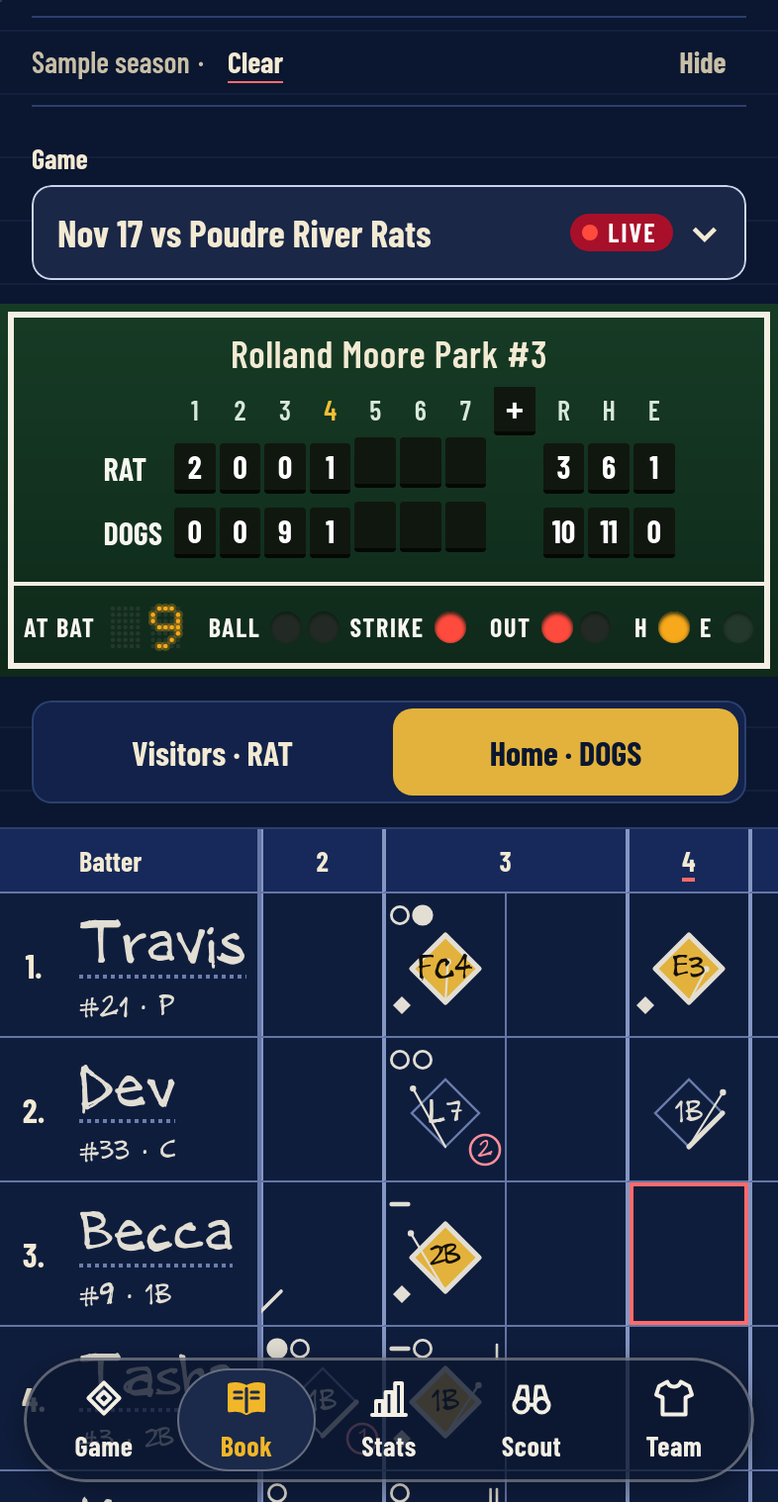
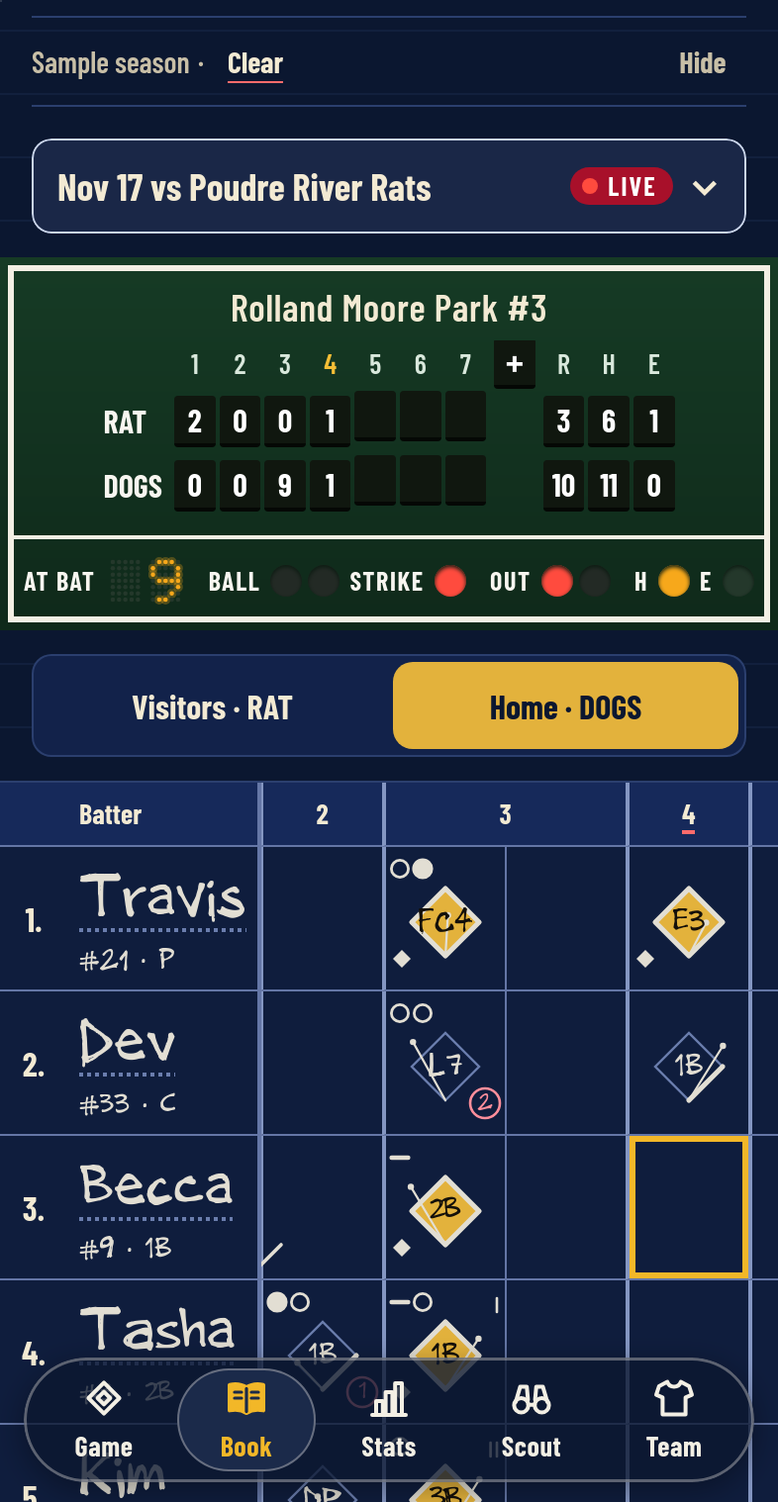
Book: current inning fully in view after batting around, gold now-box, Batter column fits the longest name, no Game label
Claude-Session: https://claude.ai/code/session_019GkS5eEiAzmEB3GrHC5aVf

diff --git a/src/ui/book/book.ts b/src/ui/book/book.ts
@@ -52,6 +52,31 @@ export function gameLabel(g: SavedGame): string {
   return `${shortDayText(g.date)} ${g.setup.us === 'away' ? 'at' : 'vs'} ${g.opponent} · ${tail}`;
 }
 
+/**
+ * The Batter column is as wide as the longest Book name at full size, never more than its cap (a
+ * third of the width with the order column) and never under 60 points (Steve, Nov 17): with first
+ * names that often leaves room for another inning.
+ */
+function sizeBatterColumn(root: HTMLElement): void {
+  const grid = root.querySelector<HTMLElement>('.bk-grid');
+  const cell = root.querySelector<HTMLElement>('.bk-grid tbody td.bk-batter');
+  if (!grid || !cell) return;
+  grid.style.removeProperty('--bk-batter-fit');
+  const names = [...root.querySelectorAll<HTMLElement>('.bk-grid tbody .bk-name')];
+  for (const el of names) el.style.setProperty('--fit', '1');
+  const cs = getComputedStyle(cell);
+  const pad = parseFloat(cs.paddingLeft) + parseFloat(cs.paddingRight) + parseFloat(cs.borderRightWidth);
+  const cap = cell.getBoundingClientRect().width;
+  const range = document.createRange();
+  let need = 0;
+  for (const el of names) {
+    range.selectNodeContents(el);
+    need = Math.max(need, range.getBoundingClientRect().width);
+  }
+  const width = Math.min(cap, Math.max(60, Math.ceil(need + pad + 2)));
+  grid.style.setProperty('--bk-batter-fit', `${width}px`);
+}
+
 /** Each name and the line under it on one line: shrink (--fit) until it shows whole. */
 function fitNames(root: HTMLElement): void {
   const fit = (el: HTMLElement, min: number) => {
@@ -80,15 +105,39 @@ function fitNames(root: HTMLElement): void {
   }
 }
 
+/**
+ * Scroll so the inning being played is fully in view, keeping as many earlier innings beside it as
+ * fit, snapped to an inning's edge so no sliver of a half-hidden inning peeks out beside the names.
+ */
+function showCurrentInning(wrap: HTMLElement): void {
+  const now = wrap.querySelector<HTMLElement>('thead th.bk-current');
+  const pinned = wrap.querySelector<HTMLElement>('thead .bk-batter');
+  if (!now || !pinned) return;
+  const edge = pinned.offsetLeft + pinned.offsetWidth;
+  const need = now.offsetLeft + now.offsetWidth - wrap.clientWidth + 2;
+  const stops = [...wrap.querySelectorAll<HTMLElement>('thead th.bk-inning')].map((th) => th.offsetLeft - edge).filter((x) => x <= now.offsetLeft - edge);
+  const fit = stops.filter((x) => x >= need);
+  wrap.scrollLeft = Math.max(0, need <= 0 ? 0 : Math.min(...(fit.length ? fit : [now.offsetLeft - edge])));
+}
+
 export class BookScreen {
   readonly el = h('div', { class: 'bk-screen' });
   private readonly app: App;
   private side: 'us' | 'them' = 'us';
   private shownId: string | null = null;
   private board: BookBoard | null = null;
+  // Bring the inning being played into view on the next draw: set when the Book is opened.
+  private reveal = false;
+  private lastInning: number | null = null;
 
   constructor(app: App) {
     this.app = app;
+  }
+
+  /** The Book tab was tapped: show the inning being played (Steve, Nov 17). */
+  show(): void {
+    this.reveal = true;
+    this.update(true);
   }
 
   update(visible: boolean): void {
@@ -136,7 +185,7 @@ export class BookScreen {
       isLive ? h('span', { class: 'bk-live' }, h('span', { class: 'bk-live-lamp' }), 'Live') : null,
       h('span', { class: 'bk-picker-chev' }, '⌄'),
     );
-    const picker = h('div', { class: 'sk-field bk-picker' }, h('label', { for: 'bk-game', class: 'sk-field-label' }, 'Game'), h('div', { class: 'bk-picker-box' }, face, menu));
+    const picker = h('div', { class: 'sk-field bk-picker' }, h('label', { for: 'bk-game', class: 'sk-visually-hidden' }, 'Game'), h('div', { class: 'bk-picker-box' }, face, menu));
 
     // The board.
     const live = team.currentGameId === game.id;
@@ -206,23 +255,24 @@ export class BookScreen {
 
     this.el.replaceChildren(header, picker, this.board.el, h('div', { class: 'bk-which' }, which), h('section', { class: 'bk-page', 'aria-label': 'Book Page' }, gridEl, note), pbp, this.footer(game));
     const wrap = this.el.querySelector<HTMLElement>('.bk-grid-wrap');
-    if (wrap && scroll !== null && !opened) wrap.scrollLeft = scroll;
-    else if (wrap && live) {
-      // A live game opens with the inning being played fully in view, keeping as many earlier
-      // innings beside it as fit (Steve, Nov 16: in the 4th at 375 points, innings 1 to 4).
-      const now = wrap.querySelector<HTMLElement>('thead th.bk-current');
-      const pinned = wrap.querySelector<HTMLElement>('thead .bk-batter');
-      if (now && pinned) {
-        // Snap to an inning's edge, so no sliver of a half-hidden inning peeks out beside the names.
-        const edge = pinned.offsetLeft + pinned.offsetWidth;
-        const need = now.offsetLeft + now.offsetWidth - wrap.clientWidth + 2;
-        const stops = [...wrap.querySelectorAll<HTMLElement>('thead th.bk-inning')].map((th) => th.offsetLeft - edge).filter((x) => x <= now.offsetLeft - edge);
-        const fit = stops.filter((x) => x >= need);
-        wrap.scrollLeft = Math.max(0, need <= 0 ? 0 : Math.min(...(fit.length ? fit : [now.offsetLeft - edge])));
-      }
-    }
-    fitNames(this.el);
-    void document.fonts?.ready.then(() => fitNames(this.el));
+    // A live game shows the inning being played whenever the Book is opened or the inning changes,
+    // however many columns batting around added before it (Steve, Nov 17); otherwise the page stays
+    // where you scrolled it.
+    const inning = live ? (page.current?.inning ?? null) : null;
+    const bringIn = live && (opened || this.reveal || inning !== this.lastInning);
+    this.reveal = false;
+    this.lastInning = inning;
+    const layout = () => {
+      sizeBatterColumn(this.el);
+      if (wrap && bringIn) showCurrentInning(wrap);
+      fitNames(this.el);
+    };
+    if (wrap && scroll !== null && !bringIn) wrap.scrollLeft = scroll;
+    layout();
+    // The handwriting font changes every name's width once it's loaded: measure again.
+    void document.fonts?.ready.then(() => {
+      if (wrap?.isConnected) layout();
+    });
   }
 
   private openAllPlays(game: SavedGame, lines: PlayLine[]): void {

diff --git a/tests/e2e/book-stats.spec.ts b/tests/e2e/book-stats.spec.ts
@@ -657,3 +657,63 @@ test('the Book writes first names, and Edit Team’s Book Names switches the who
   expect(last).toContain('Pruitt');
   expect(last).not.toContain('Travis');
 });
+
+test('after batting around in the 3rd, the Book opens with the whole 4th in view at 375, its now-box gold (Steve, Nov 17)', async ({ page }) => {
+  await page.setViewportSize({ width: 375, height: 759 });
+  await freshApp(page);
+  await startGame(page, { ruleSet: 'Basic Slowpitch' });
+  const theirHalf = async () => {
+    for (let n = 0; n < 3; n++) await key(page, '+1 Out').click();
+  };
+  for (let inning = 1; inning <= 2; inning++) {
+    for (let n = 0; n < 3; n++) await key(page, 'Strikeout Swinging').click();
+    await theirHalf();
+  }
+  // The 3rd: ten singles, so the top of the order bats twice (two columns), then three outs.
+  for (let n = 0; n < 10; n++) await key(page, 'Single').click();
+  // A look at the Book mid-inning, so it remembers a spot in the 3rd.
+  await page.getByRole('tab', { name: 'Book' }).click();
+  await page.locator('.bk-grid').waitFor();
+  await page.getByRole('tab', { name: 'Game' }).click();
+  for (let n = 0; n < 3; n++) await key(page, 'Strikeout Swinging').click();
+  await theirHalf();
+  await page.getByRole('tab', { name: 'Book' }).click();
+  await page.evaluate(() => document.fonts.ready);
+  await page.waitForTimeout(200);
+  const at = await page.evaluate(() => {
+    const wrap = document.querySelector('.bk-grid-wrap')!.getBoundingClientRect();
+    const pinned = document.querySelector('.bk-grid thead .bk-batter')!.getBoundingClientRect();
+    const now = document.querySelector('.bk-grid thead th.bk-current')!;
+    const r = now.getBoundingClientRect();
+    const third = [...document.querySelectorAll('.bk-grid thead th.bk-inning')].find((th) => th.textContent === '3')!;
+    const due = document.querySelector('.bk-grid .bk-due');
+    return { inning: now.textContent, left: r.left, right: r.right, pinned: pinned.right, edge: wrap.right, thirdSpan: third.getAttribute('colspan'), due: due ? getComputedStyle(due).boxShadow : '' };
+  });
+  expect(at.thirdSpan).toBe('2');
+  expect(at.inning).toBe('4');
+  expect(at.left).toBeGreaterThanOrEqual(at.pinned - 1);
+  expect(at.right).toBeLessThanOrEqual(at.edge + 1);
+  // Gold #f2b728, never the red of outs.
+  expect(at.due).toContain('rgb(242, 183, 40)');
+});
+
+test('the Batter column fits the longest Book name (capped at a third), and the picker needs no Game label (Steve, Nov 17)', async ({ page }) => {
+  await sampleBook(page, 375);
+  const got = await page.evaluate(() => {
+    const cell = document.querySelector<HTMLElement>('.bk-grid tbody td.bk-batter')!;
+    const range = document.createRange();
+    let longest = 0;
+    for (const el of document.querySelectorAll('.bk-grid tbody .bk-name')) {
+      range.selectNodeContents(el);
+      longest = Math.max(longest, range.getBoundingClientRect().width);
+    }
+    const pinned = document.querySelector('.bk-grid thead .bk-batter')!.getBoundingClientRect().right;
+    return { width: cell.getBoundingClientRect().width, longest, pinned, label: getComputedStyle(document.querySelector('label[for="bk-game"]')!).position };
+  });
+  expect(got.width).toBeGreaterThanOrEqual(got.longest);
+  expect(got.width).toBeLessThanOrEqual(got.longest + 24);
+  expect(got.pinned).toBeLessThanOrEqual(375 / 3 + 1);
+  // Visually hidden, still there for VoiceOver.
+  expect(got.label).toBe('absolute');
+  await expect(page.getByRole('combobox', { name: 'Game', exact: true })).toHaveCount(1);
+});

diff --git a/src/content/help.ts b/src/content/help.ts
@@ -139,7 +139,7 @@ export const HELP: HelpSection[] = [
       'Under it, Rare Plays is a checklist: a double play, a triple play, the cycle, an inside-the-park homer, a grand slam, a perfect inning, and a walk-off. The first time your team has one, it gets a check and the date and park, written in by hand.',
       'Watch Replay, above the play-by-play, plays the game back on the field: the ball’s line out to where it landed, runners moving around the bases, and the score ticking along. Play runs it, Back and Next step through, and the menu jumps to any half-inning.',
       'Tap any box or play-by-play line to Edit Play: change the result, move the ball, change where each runner ended and who gets the RBI, or Delete This Play (tap twice). Everything after it is re-scored, on saved games too, and the stats follow.',
-      'Use Visitors and Home above the page to switch teams, the Game menu for another game (LIVE marks the one being scored), the pencil at the top to choose Pencil, Black Pen, or Blue Pen, and the share icon beside it to share the game. During a game, the Book opens with the inning being played in view; swipe the page sideways for the others, and the names stay put.',
+      'Use Visitors and Home above the page to switch teams, the Game menu for another game (LIVE marks the one being scored), the pencil at the top to choose Pencil, Black Pen, or Blue Pen, and the share icon beside it to share the game. During a game, the Book opens with the inning being played fully in view (even after batting around), and the batter at the plate has a gold box; swipe the page sideways for the others, and the names stay put.',
     ],
   },
   {

diff --git a/src/ui/book/book.css b/src/ui/book/book.css
@@ -455,7 +455,7 @@
   /* The order and Batter columns together take at most a third of the width (Steve, Nov 16), so
      four innings show at 375 points; names shrink to fit one line. */
   /* Never under 60 points, so each name keeps a 44-point tap at 150% zoom and the largest text. */
-  --bk-batter-w: min(max(calc(33.3vw - var(--bk-num-w)), 60px), 172px);
+  --bk-batter-w: var(--bk-batter-fit, min(max(calc(33.3vw - var(--bk-num-w)), 60px), 172px));
   width: var(--bk-batter-w);
   min-width: var(--bk-batter-w);
   max-width: var(--bk-batter-w);
@@ -518,7 +518,8 @@
 }
 
 .bk-due {
-  box-shadow: inset 0 0 0 2px var(--label-rule);
+  /* The batter at the plate is "now": gold, never red (red is outs and alerts; Steve, Nov 17). */
+  box-shadow: inset 0 0 0 3px var(--book-now);
 }
 
 .bk-box {

diff --git a/src/content/whats-new.ts b/src/content/whats-new.ts
@@ -10,6 +10,14 @@ export interface WhatsNewEntry {
 
 export const WHATS_NEW: WhatsNewEntry[] = [
   {
+    version: '2026.11.17-9',
+    headline: 'The Inning You’re In',
+    lines: [
+      'The Book always opens on the inning being played, all of it, even after your team bats around.',
+      'The batter at the plate gets a gold box, the color of right now, and the name column is only as wide as your longest name, so there’s room for more innings.',
+    ],
+  },
+  {
     version: '2026.11.17-8',
     headline: 'First Names in the Book',
     lines: [

diff --git a/src/ui/shell.ts b/src/ui/shell.ts
@@ -88,7 +88,7 @@ export function mountApp(root: HTMLElement, app: App): void {
     nudge.update(id);
     // The board measures names to fit them, which needs it on screen.
     if (id === 'game') game.update();
-    if (id === 'book') book.update(true);
+    if (id === 'book') book.show();
     if (id === 'stats') stats.update(true);
     if (id === 'scout') scout.update(true);
     updateFits();

diff --git a/src/styles/tokens.css b/src/styles/tokens.css
@@ -236,6 +236,8 @@
   /* The heavy rule between innings, a pencil-dark line. */
   --book-rule-heavy: #6e5d3c;
   --book-line: #8a7650;
+  /* The box for the batter at the plate: gold, the color of "now". */
+  --book-now: var(--sk-gold-runner);
   --ink-pencil: #3c4047;
   --ink-black: #18181c;
   --ink-blue: #1c3d8c;

diff --git a/src/version.ts b/src/version.ts
@@ -1,2 +1,2 @@
 // Bump on every push that changes the app. Format: YYYY.MM.DD-N
-export const APP_VERSION = '2026.11.17-8';
+export const APP_VERSION = '2026.11.17-9';

diff --git a/docs/MASTER_SPEC.md b/docs/MASTER_SPEC.md
@@ -535,6 +535,7 @@ Grouped; each item opens its own screen; ✕ or Done returns to Settings:
 - **Screens pass 1 (2026.11.17-6, Steve, Nov 16):** **Badges:** both team colors (above, §11). In this rebuild the badge had one color and the app's tan ring from its first commit (`65c8c98`, Phase 4): it filled with the primary, or the secondary when the primary was too close to the then-navy board, which is why the Diamond Dogs (Navy and Red) showed red. **Book:** on iPhone the scorebook page runs edge to edge with no card and no ruling beside it (`.layout-phone .bk-page`); the order and Batter columns together take at most a third of the width (`--bk-num-w`, `--bk-batter-w`), so a game in the 4th at 375 points shows innings 1 to 4; a live game opens with the current inning fully in view and as many earlier innings beside it as fit; pitch marks are about 10 points (smaller only when a long at-bat needs the room); the run ◆ (bottom-left of a box, so a run never depends on the highlighter's color) is explained in Help. **Edit Team and setup:** one grid of the 18 colors with a Primary / Secondary switch above it (each side names its color with a dot), Big League Colors below; the preview's runs and inning are LED bulbs in the boards' housing. **Pickers** (`select.sk-input`) are in the athletic face; typed text stays in the iPhone's font.
 - **Stats and Team from the approved mockups (2026.11.17-7, Steve, Nov 16):** **Stats, the back of a baseball card:** the header has Schedule (a calendar icon) and a ••• menu (the iPhone's own) with New Season; the row with the team's name and season above the sections is gone: an edge-to-edge navy band (`--card-band`) names the team and its gold season is the iPhone's own season menu, above the five sections so it serves all of them; Overview is an edge-to-edge card: the stat line G, W, L (T only when there are ties), RS, RA (saved games), a red rule, Team Leaders as a printed table (athletic face, Stat, Leader, No., a red rule under the heads, faint stripes, ties by last name on one line, shrinking to fit and never wrapping, each name a 44-point tap to the player's card), and the footnote "Tap a name for the player’s card."; the Games list is ruled rows on a second card with a navy Games band, the result letter, score, date, and park, with View and Delete. **Team, a roster card:** + in the header adds a team (Add Team and Switch Team buttons gone); with two or more teams the team's name opens the iPhone's own menu to switch; the colors line is in the athletic face; the roster and reserves are edge-to-edge sheets with a navy heading and 60-point ruled rows: the jersey number once, in a block (navy with cream numbers by day, cream with navy by night; never gold; a player with no number shows a photo or initials there), the name, positions and bats under it, ♪ for a walk-up song. **Dark Mode:** team badges and color dots get a thin cream edge (`--team-edge`), so navy, black, and dark green stay visible on the navy page (a test checks all 18 colors).
 - **Names, Book sizes, and the audit (2026.11.17-8, Steve, Nov 17):** **Names** follow each screen's real object: the Book writes first names (`bookNames()` in `src/app/book.ts`: two players with one first name both get a last initial, "Cody W."/"Cody M.", more letters while still tied, "Sam Pat."/"Sam Par."; suffixes drop; a number like "Batter 1" stays whole), across the whole roster on our page and the lineup on theirs, and the Scorecard picture matches; a team's **Book Names** (Edit Team: First Names / Last Names; `Team.bookNames`, schema 2, migration 1→2 sets 'first', restored backups go through the same migrations) switches the Book to last names with a first initial on ties ("Wendt, C."); names grow to 30 points and shrink to fit the third-width column, never under 12. **Book marks:** out numbers 12 points in a 15-point circle, the IP note 12, play codes 16; the grid's hairlines (`--book-rule` 3.6:1 by day, 3.7:1 by night), the heavy inning lines (6.1:1, 5.6:1), and the diamonds (4.2:1, 4.1:1) all pass 3:1; the ◆ run mark stays. **Status bar:** `src/ui/statusbar.ts` sets `theme-color` to the color at the top of the screen whenever it can change (a tab, a sheet opening or closing, the Organ, the appearance): the page's paper, the dimmed page under a sheet from the bottom, a full-screen sheet's own color, or the Organ's green. **Fonts:** Settings row values (`.sk-row-detail`), Scout's team lines, and the player card's rows and By Position line are in the athletic face; explanations and typed text stay the iPhone's font. **Player card:** the season table runs edge to edge in the card with compact cells, so G through AVG fit at 375 points with Season pinned (narrower screens scroll the stats beside it); the header's number is a block like the roster's (navy by day, cream by night). **Sample season:** a slim one-line strip right under each title but Game's, "Sample season · Clear" with Hide; Hide lasts until the app is closed (kept in memory only); Clear asks first, as before. **Game:** keeps its compact 44-point header, the one exception to the large-title rule.
+- **Book follow-up (2026.11.17-9, Steve, Nov 17):** a live game shows the inning being played fully in view whenever the Book is opened (`BookScreen.show()` from the tab) or the inning changes, snapped to an inning's edge, however many columns batting around added before it; otherwise the page keeps where you scrolled it (the old behavior kept a spot from an earlier inning, which cut the 4th to a sliver on Steve's iPhone). The batter at the plate's box is gold (`--book-now`, a 3-point inner gold line), never red. The Batter column is as wide as the longest Book name at full size plus padding (`--bk-batter-fit`, measured after the handwriting loads), capped at a third of the width with the order column and never under 60 points. The "Game" label over the game picker is hidden on screen and kept for VoiceOver.
 - **Team colors like the first build (2026.11.14-14, Steve's v1 screenshots):** Edit Team and setup's Pick Your Colors share `scorebugPreview`: a broadcast score bug on the scoreboard green (your badge in your colors with ▸ and 5 runs over OPP with 3, ▲6, bases with first and third on, one out lamp lit), live as the name and colors change. Under it the Primary and Secondary circles (labeled with the color picked, "Primary: Navy") and Big League Colors as one menu ("Pick a city look (optional)"), in both places; the 30-row list is gone.
 - **Words-and-numbers pass (2026.11.15-1, MASTER_SPEC Part 0):** the banner reads "3. AT BAT BECCA LINDQVIST #9 · 1B" and "4. ON DECK TASHA GREER #3 · 2B" (badges with a period, the jersey number and position after the name, smaller; `.gm-numpos`). The stat lines carry TODAY and SEASON tags (`.gm-stat-label`; before the first trip, one SEASON tag on the first line); doubles and triples are words. Keys below the board are Title Case (Ball, Strike, Foul, Undo Foul, Lineups, Defense); the tool row is a step quieter (19, weight 600). Ball, Strike, and Foul keep their full height with or without the OUT tag, so a lone word sits centered. The wordmark's jersey shadow uses whole points (crisp). Every button, tab, label, and title app-wide is the athletic face (`.sk-key`, `.sk-seg`, `.sk-pill`, `.sk-row-label`, `.sk-field-label`, `.sk-label`, `.sh-title`); the iPhone's font only for paragraphs and typing. **Book:** the order column reads "1.", "2." (no # header; VoiceOver: Batting order); every player in a spot, starter and subs, gets a small pencil line under the name: jersey number, positions with the inning of each move ("SS → P (5)", "LF → Sit (4) → LF (6)"), and for a sub the inning they first batted ("in 6th").
 - **Header keys (2026.11.14-3):** the Organ, speaker, and gear are thin brushed-aluminum rings (1.5-point frame, the tools row's grain and light), lighter than the old filled circles. Sound on: a small gold lamp lights in the speaker's ring, with the speaker's waves; off: a dark socket and the slashed speaker.

diff --git a/CLAUDE.md b/CLAUDE.md
@@ -125,6 +125,7 @@ These rules applied to the first build and still apply.
 
 Newest first. One line each, with the date and where the detail lives. Later sessions follow these unless Steve changes one; a change gets its own new line.
 
+- **Nov 17 (Book follow-up):** the Book opens a live game with the current inning fully in view, counting extra columns from batting around, and brings it in again when the inning changes; the batter at the plate's box is gold (now), never red; the Batter column fits the longest Book name, capped at a third of the width; the "Game" label over the picker is gone (kept for VoiceOver) (MASTER_SPEC).
 - **Nov 17 (names, sizes, audit):** player names follow each screen's real object (house style, Words): the Book on first names with initials on ties, a team's Book Names setting (First / Last; softball teams default to First, and since every team so far is softball, all are First; saved as `bookNames`, schema 2, with a migration and a backup test); Book names grow to 30 points within the third-width column. The Book's out numbers and IP note are 12 points, play codes 16, and the grid lines, inning lines, and diamonds at least 3:1. The Game screen keeps its compact header, the one exception to the large-title rule. The audit's fixes: the status bar follows the top of each screen (`theme-color`, sheets dim it, the Organ greens it), Scout's team lines, Settings row values, and the player card rows in the athletic face, the player card's season table fits at 375 with Season pinned, and the sample season is a slim strip under each title with Clear and Hide (Hide lasts until the app closes) (MASTER_SPEC).
 - **Nov 17 (Stats and Team built):** from the approved mockups with Steve's answers: Stats' record line is G · W · L · RS · RA; the team-and-season row above the tabs is gone, the card's navy band shows the team and its season is the native menu; Schedule is a calendar icon beside ••• (New Season) in the header; the footnote is just "Tap a name for the player’s card."; Games are ruled rows on the card with View and Delete. Team: tapping the team name opens the native menu to switch when there are two or more teams; + adds a team; number blocks are navy with cream numbers by day and cream with navy by night, never gold (gold = now and runners); in Dark Mode team badges and color dots get a thin cream edge, tested for every color (MASTER_SPEC).
 - **Nov 17 (screens pass 1):** four app-wide rules added to house style (Edges, Status bar, Shared basics, Typed text and shown choices); team badges carry both team colors (the primary fills, the secondary rings; the "too close to the navy board" swap is gone, since the boards are green); the Book's scorecard runs edge to edge with the order and Batter columns at most a third of the width, pitch marks about 10 points, and the run ◆ explained in Help; Edit Team has one color grid with a Primary / Secondary switch and LED digits in its preview; Stats and Team wait for their mockups (MASTER_SPEC; BACKLOG, Screens pass 1).

diff --git a/README.md b/README.md
@@ -79,7 +79,7 @@ The tab bar stays at the bottom of every screen while you scroll, so any tab is 
 - **Share** on the Book, or **Share Recap** after **Save to Season**: the **Recap** picture (final, line score, Stars of the Game) or the **Scorecard** (your Book page), with **Share Picture**, **Share Text**, **Copy Text**, and **Post to Discord**.
 - **Settings**, **Discord**: paste your channels' webhook links and tap **Save & Test**. They stay on your iPhone and are never in a backup. **Who's In? Poll** on the Up Next card posts a real Discord poll that closes at game time.
 - In Scorekeeper Mode the Game scoreboard's frame flashes for home runs and walk-offs.
-- The Book opens a live game with the inning being played in view and the batter names pinned, shrinking to fit a column a third of the width, so four innings show at a glance.
+- The Book opens a live game with the inning being played fully in view, even after batting around, and the batter at the plate in a gold box. The names column is as wide as the longest name (at most a third of the width), so more innings show at a glance.
 - The Book's scoreboard and its scorebook page both run the full width of the iPhone, like the Game board.
 - The Book writes first names, the way a scorer does (two players with one first name get an initial: “Cody W.”); **Edit Team**, **Book Names** switches to last names.
 - First-version backups bring their ball spots over in fair territory, and a moved ball redraws on the player card at once.
